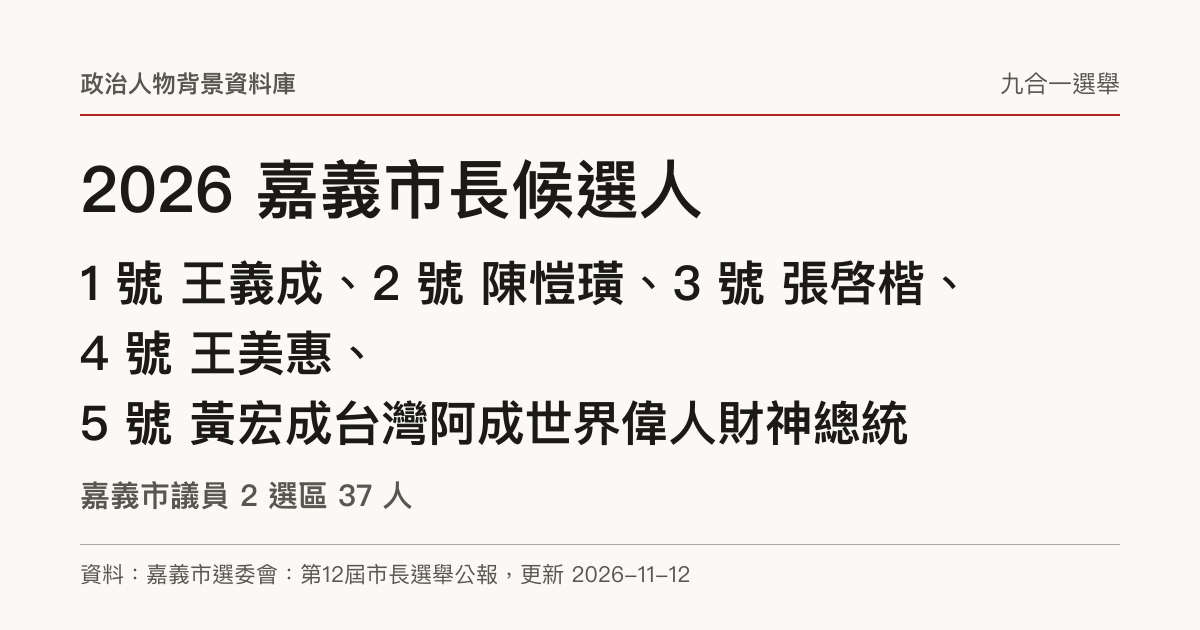
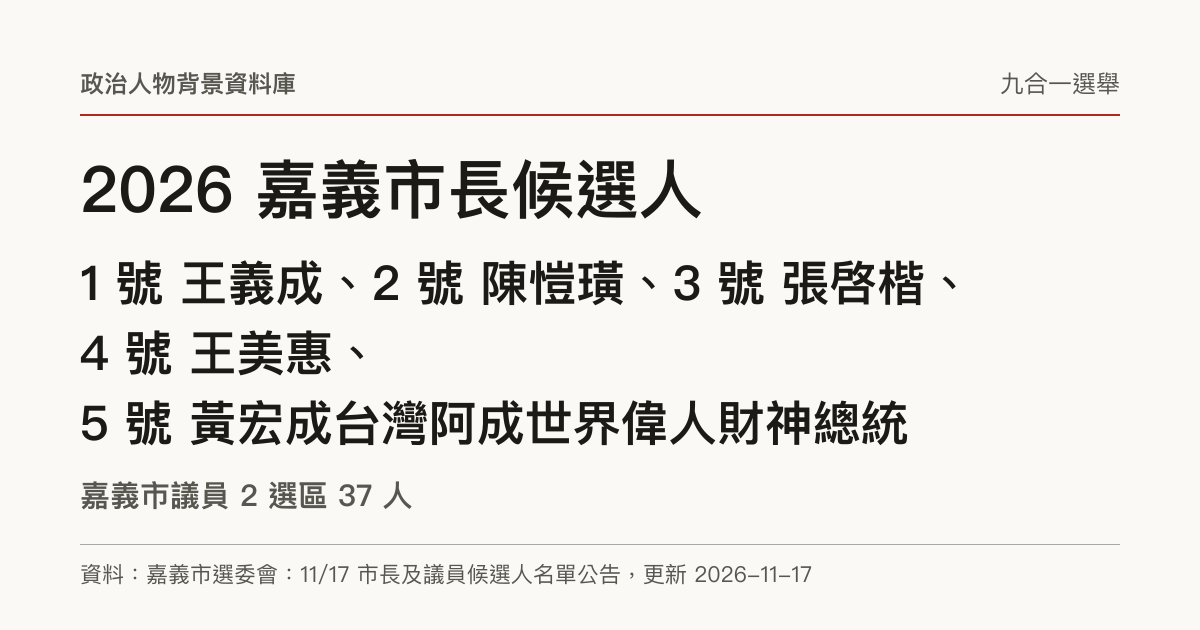
Verify Chiayi City official rosters and add November 23 policy records

Changed region(s): [[0.2467, 0.8746, 0.6783, 0.9349]]

diff --git a/test/candidatePolicies.test.ts b/test/candidatePolicies.test.ts
@@ -143,7 +143,7 @@ describe('首長政見全名冊查核', () => {
     expect(data.rosterDate).toBe(national.source.tableDate);
     expect(reviews.size).toBe(81);
     expect(roster.filter((c: { slug: string }) => policies.has(c.slug))).toHaveLength(81);
-    expect([...policies.values()].filter(c => c.role.endsWith('議員'))).toHaveLength(83);
+    expect([...policies.values()].filter(c => c.role.endsWith('議員'))).toHaveLength(85);
     expect([...reviews.values()].filter(r => r.status === 'pending-source')).toHaveLength(0);
     expect(national.races.every((r: { candidates: { slug: string }[] }) => r.candidates.some(c => policies.has(c.slug)))).toBe(true);
   });

diff --git a/test/candidateBallots.test.ts b/test/candidateBallots.test.ts
@@ -61,7 +61,7 @@ describe('2026 審定與已查證選區號次', () => {
     for (const d of county.districts) { delete d.source; for (const c of d.candidates) c.number = null; }
     applyVerifiedBallots(national, counties, { ...verified, ballots: verified.ballots.filter(b => b.countyName !== '嘉義市' || b.districtNo !== 2) });
     expect(county.source.stage).toBe('certified');
-    expect(county.districts[0].source?.url).toContain('65355');
+    expect(county.districts[0].source?.url).toContain('65991');
     expect(county.districts[1].source).toBeUndefined();
     expect(county.districts[1].candidates.every(c => c.number === null)).toBe(true);
   });

diff --git a/docs/candidate-policy-audit-2026.md b/docs/candidate-policy-audit-2026.md
@@ -462,3 +462,13 @@
 名冊號次：中選會公告分頁及22縣市首頁最新公告巡查，重算22個首長選舉81人、221個議員選區1,493人，共1,574人，缺號次0人、0選區。未取得新的更正證據，名冊及日期未變。新北政見會影片、嘉義縣與屏東選舉人人數、中央投票日放假公告均非名冊變更；花蓮11/20公報勘誤已於前輪處理。各地11/17正式名冊仍依已驗證來源逐步續核，本輪未宣稱逐名重核全部新附件。未生成新聞快報、未呼叫司法API、未調整司法排程。
 
 人物基本資料：[refresh-data run 44888018154](https://github.com/weryk153/legislator-background/actions/runs/44888018154)本輪啟動一次並成功完成。下載factual-refresh-evidence/status.json確認targets=1043、reviewed=1043、failures=[]、careersAdded=0、assetsAdded=0、assetsEnriched=0、changed=false。人物快照及日期保持原值；雲端結束後fetch origin，遠端與本輪基準一致，已包含11/20晚間與11/21早間快報提交。
+
+## 2026-11-23 每日維護
+
+本輪新增3筆紀錄、6項摘要。核對屏東縣長候選人蘇清泉[11月22日竹田公開發言與回應](https://www.cna.com.tw/news/aipl/202611220190.aspx)，收錄其客家事務經費與人事承諾，保留財源及期程未載的限制。嘉義市議員第1選區依[選委會11月12日公報公告](https://web.cec.gov.tw/cyec/article/65776)與[第1選區公報第1頁](https://web.cec.gov.tw/api/file/2c83bb46-bee1-4de2-a808-ea4544eca0fe.pdf)，核對1號顏翎熹的公車路網與高齡照顧、2號傅大偉的托育與社宅主張。公報政見發表日未載，保留 null。
+
+累計收錄81位首長及85位議員，共270筆紀錄、899項摘要。首長待補來源0人，收錄範圍為部分可查主張。嘉義市42位首長與議員的正式姓名及號次核對結果另見號次紀錄。
+
+人物基本資料：[本輪執行紀錄](https://github.com/weryk153/legislator-background/actions/runs/45143390383)成功，下載的 evidence 顯示1,043人全部查核完成，無失敗、無新增履歷或財產異動，人物快照日期維持原值。
+
+驗證：政見、首長與議員比較、號次共41項測試通過，完整建置2,168頁。實測三位候選人的人物頁、嘉義市第1選區議員比較與屏東首長客家議題比較，新增內容均可讀取；嘉義兩位議員在390px寬度下比較無水平溢出。

diff --git a/docs/candidate-ballots-2026.md b/docs/candidate-ballots-2026.md
@@ -124,3 +124,9 @@
 對讀[連江11/17正式名單公告](https://web.cec.gov.tw/lcec/article/66008)及[掃描原件](https://web.cec.gov.tw/api/file/f40cafa0-acfa-43c1-8763-e26487ed6172.pdf)，縣長2人、議員4區14人姓名及號次全部一致。5組來源由新聞改為正式公告（announced），日期11/17；僅更新來源及連江選舉圖卡，未改姓名、號次或黨籍。鄉長不屬本輪名冊維護範圍，全國原始審定日期維持10/16。
 
 [花蓮11/20公報勘誤](https://web.cec.gov.tw/hlec/article/66135)涉及第1選區13號陳財能政見文字，非候選人姓名或號次變更；本站原未收錄該段，沒有舊誤文需更正。本輪使用更正版附件核對第1選區1號許願神、2號黃達祥並整理其政見，未將僅含公報第3至4頁的附件當作全選區完整名冊。新北11/20議員政見會影片、里長重行選舉與屏東選舉人數公告均未移作首長／議員號次變更。其餘縣市沿用已驗證來源，不宣稱本輪逐人重核所有正式附件。
+
+## 11/23 嘉義市正式名冊
+
+核對嘉義市選委會[11月17日公告](https://web.cec.gov.tw/cyec/article/65991)及[蓋印名冊](https://web.cec.gov.tw/api/file/dabc76da-691f-40b7-a8f6-352956eab202.pdf)。市長5人、第1選區議員16人、第2選區議員21人，姓名與號次均與本站一致。三組名冊改引該公告，並更新嘉義市分享圖卡。兩個議員選區另與本屆公報交叉核對。
+
+重算全國22個首長選舉81人、221個議員選區1,493人，缺號次0人、0選區。本輪巡查中選會與22個地方選委會首頁公告；臺北公報選舉人資格更正、花蓮議員政見勘誤及新竹市里長公報勘誤均未涉及本輪首長或議員號次。完整逐人對讀正式名冊的範圍為嘉義市。
